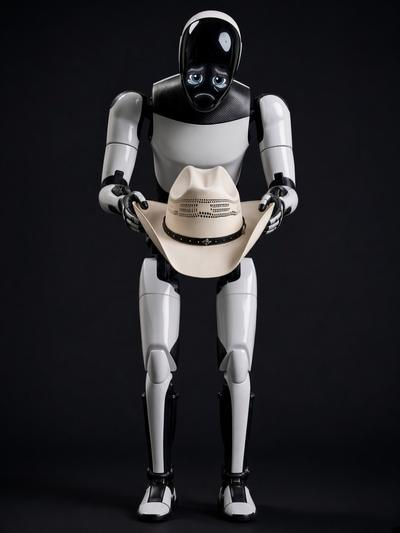
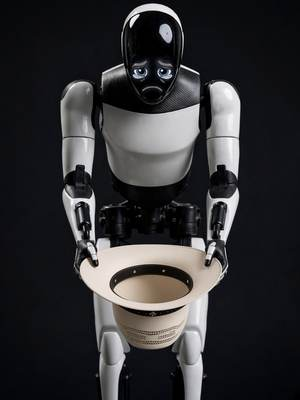
Play a longer upside-down hat performance on Support Us.
Optimus offers the open crown, drops to his knees, and rises back to the same standing frame. The approved tiles are unchanged.

diff --git a/tests/kodi-repairs.test.js b/tests/kodi-repairs.test.js
@@ -310,9 +310,9 @@ print('ok', len(frames))
 test('support animation is a silent cowboy-hat frame loop', () => {
   const media = path.join(root, 'kodi-src/plugin.video.fefc/resources/media/optimus-support');
   const frames = fs.readdirSync(media).filter((n) => /^f\d+\.jpg$/.test(n)).sort();
-  assert.ok(frames.length >= 12 && frames.length <= 24);
+  assert.ok(frames.length >= 40 && frames.length <= 70);
   const bytes = frames.reduce((n, f) => n + fs.statSync(path.join(media, f)).size, 0);
-  assert.ok(bytes < 800000, bytes);
+  assert.ok(bytes < 1600000, bytes);
   const out = py(`
 import os, sys
 sys.path.insert(0, ${JSON.stringify(lib)})
@@ -326,6 +326,7 @@ print('ok', len(frames))
   assert.match(out, /^ok /);
   const router = fs.readFileSync(path.join(lib, 'router.py'), 'utf8');
   assert.match(router, /support_frames/);
+  assert.match(router, /waitForAbort\(0\.2/);
   assert.match(router, /def _pump/);
   assert.doesNotMatch(router, /Player\(\)\.play\([^)]*optimus-support/);
 });

diff --git a/kodi-src/plugin.video.fefc/resources/lib/router.py b/kodi-src/plugin.video.fefc/resources/lib/router.py
@@ -1682,7 +1682,8 @@ class SupportWindow(xbmcgui.WindowDialog):
                 except Exception:
                     pass
                 i += 1
-            mon.waitForAbort(0.125 if self._frames else 0.2)
+            # 5 fps. The stand, kneel, and rise loop is about 11 seconds.
+            mon.waitForAbort(0.2)
 
     def doModal(self):
         self._closed = False
